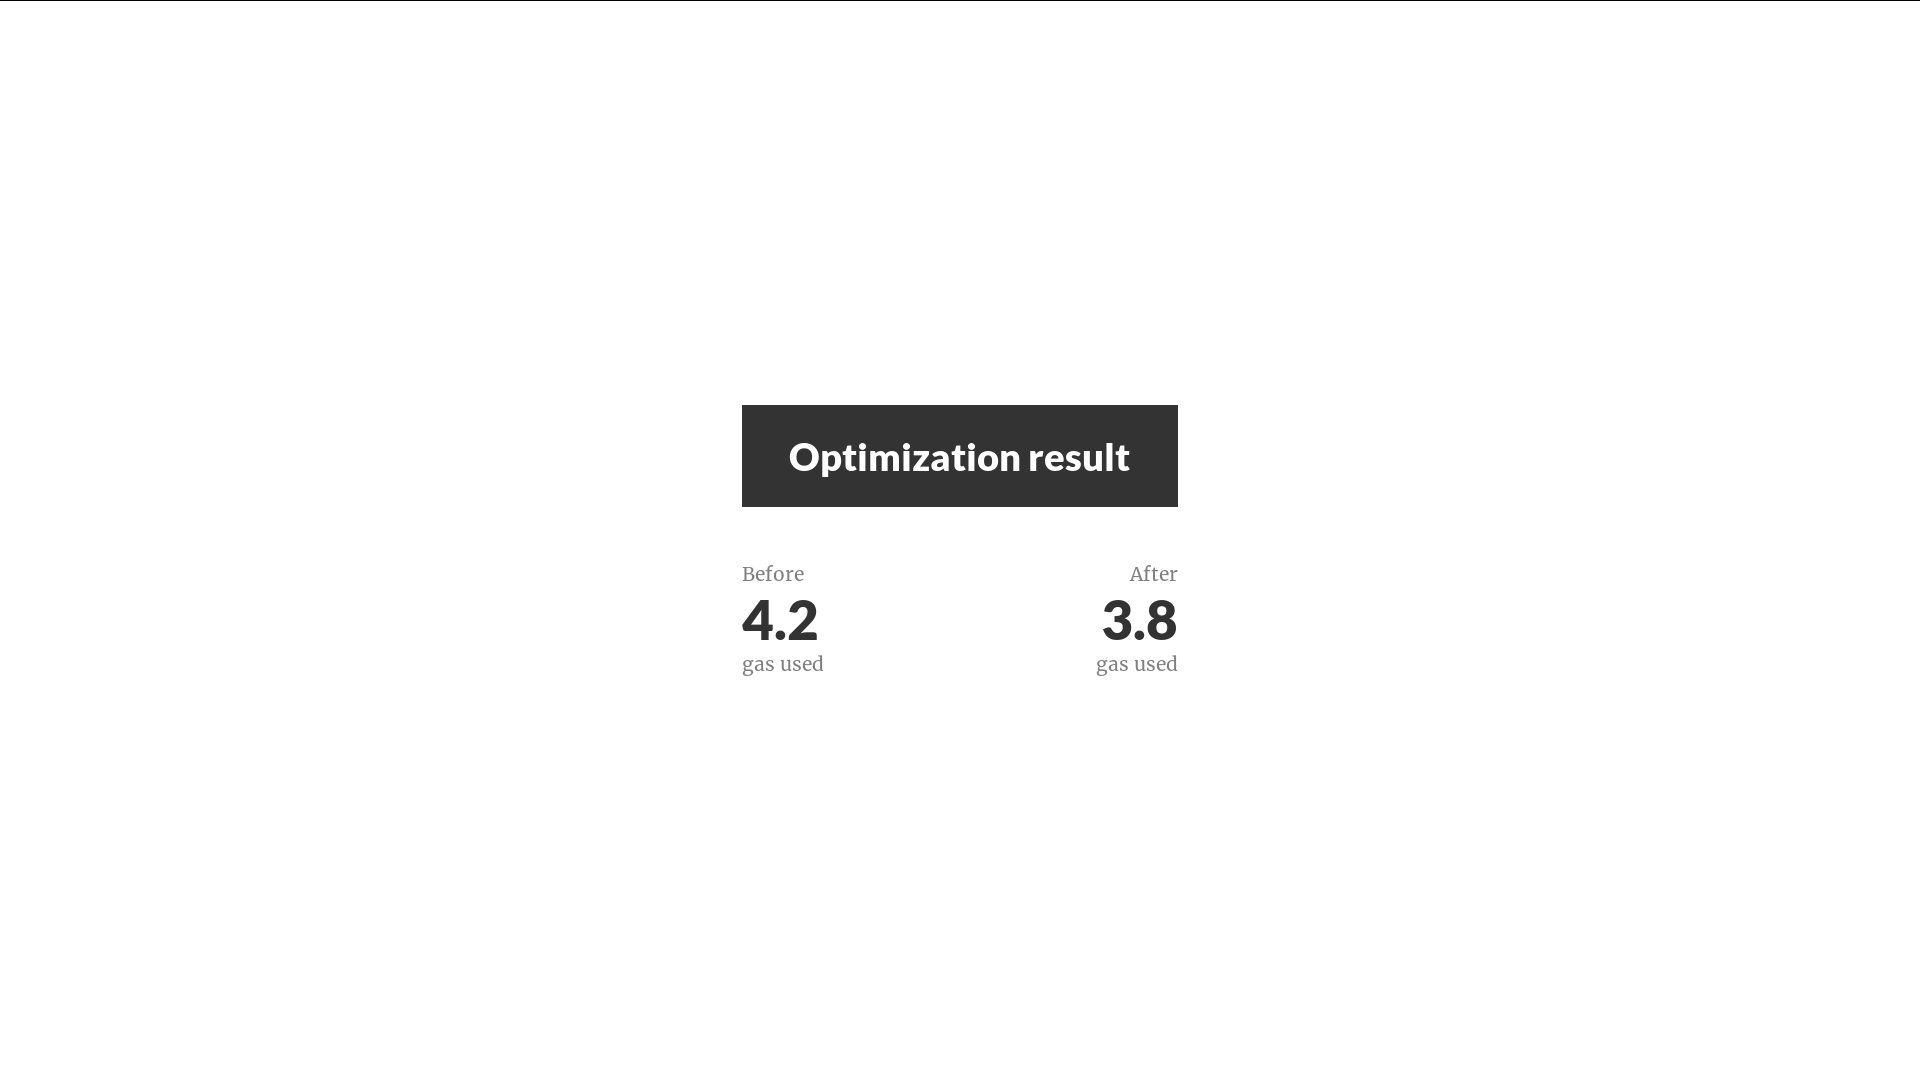
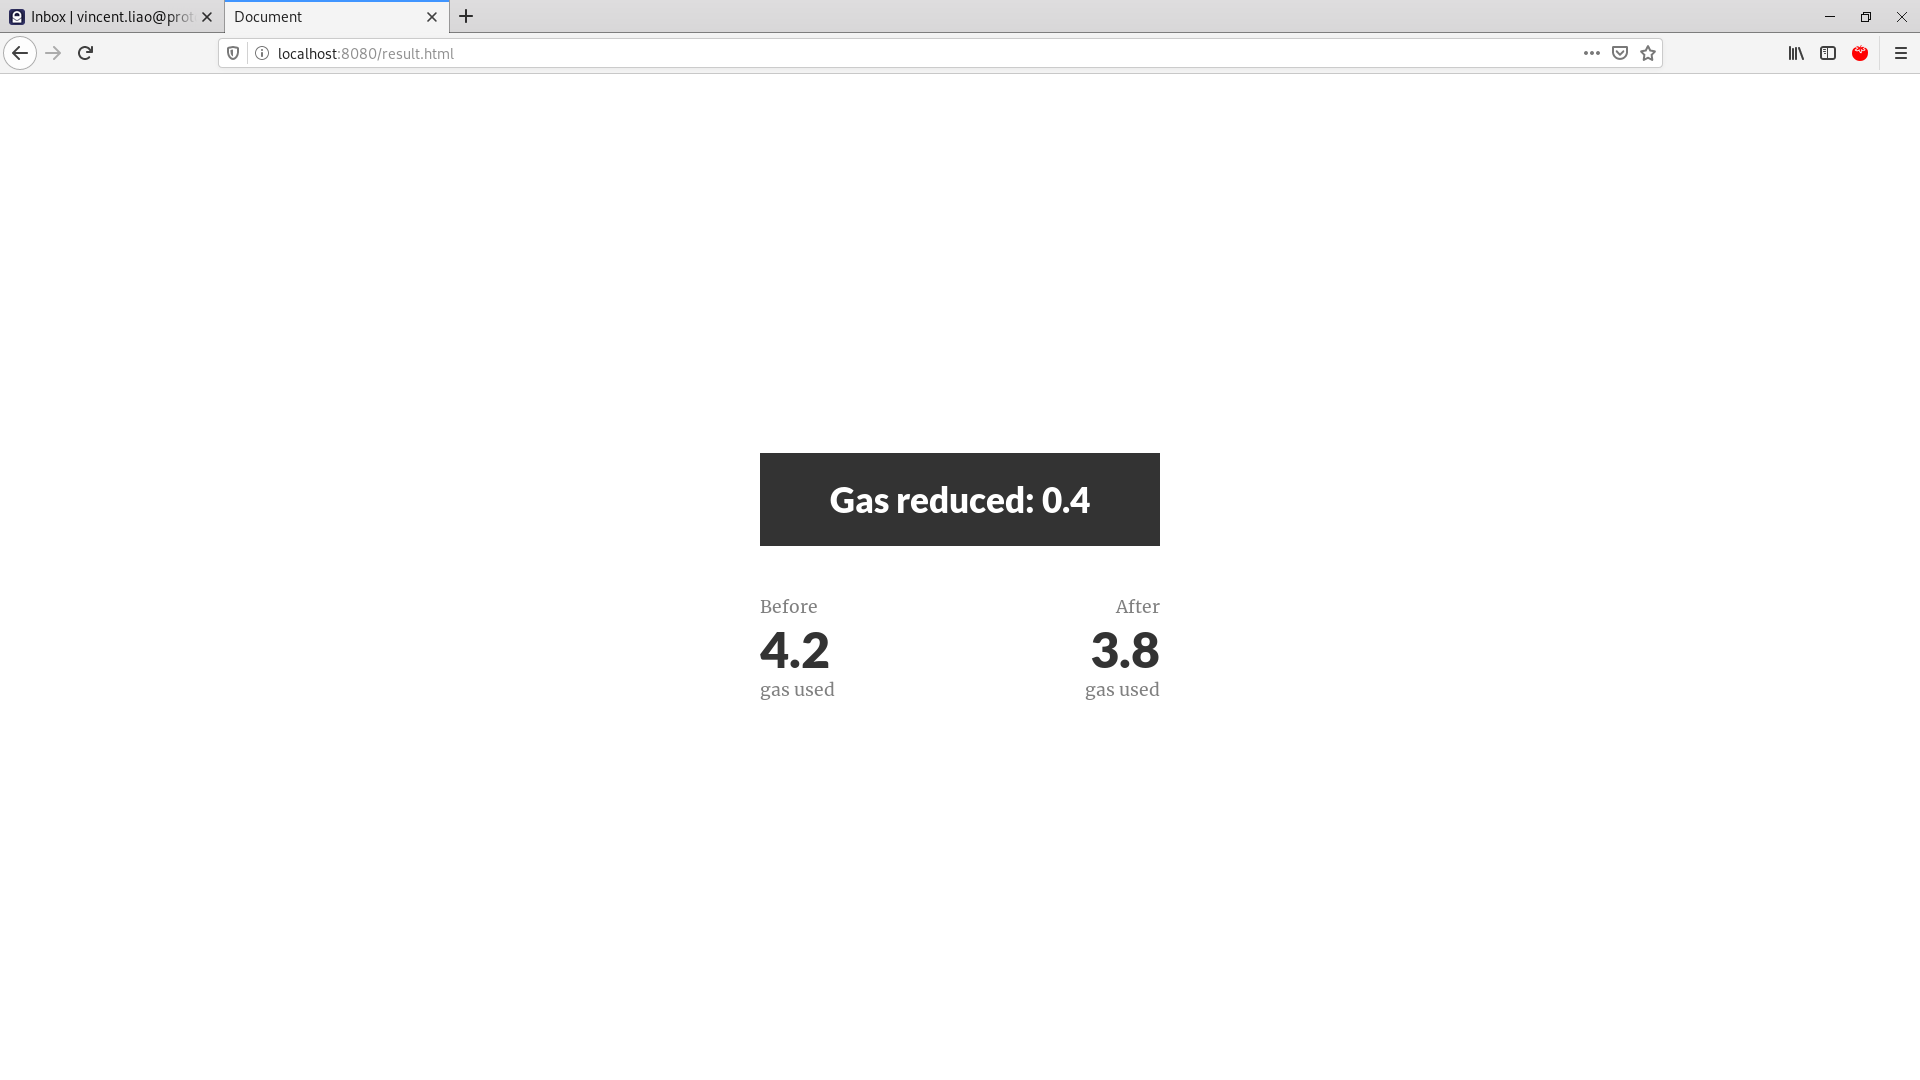
changed the headline on result page to display a number

Changed region(s): [[0.375, 0.3667, 0.625, 0.6417], [0.2188, 0.0, 1.0, 0.0611], [0.0, 0.0, 0.2188, 0.0611]]

diff --git a/skripsi-app/result.html b/skripsi-app/result.html
@@ -15,7 +15,7 @@
 
   <div class="container">
     <section class="result flex">
-      <h1 class="result__title">Optimization result</h1>
+      <h1 class="result__title">Gas reduced: 0.4</h1>
 
       <div class="result__optimize-text-block flex">
         <div class="result__optimize-text">
